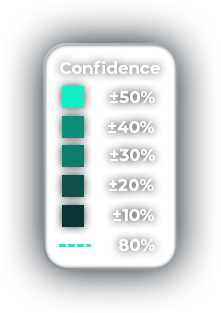
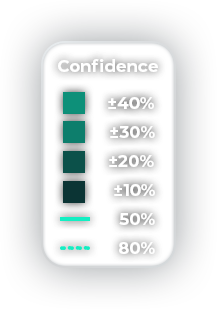
new legend/chart: todo implement the text and chart considerations

diff --git a/bot/functions.py b/bot/functions.py
@@ -55,10 +55,8 @@ class Stamp:
         return rounded
 
     def image(self, chart, displayLegend=True):
-        if displayLegend:
-            main = Image.open("bot/assets/predict.png").convert("RGBA")
-        else:
-            main = Image.open("bot/assets/chart.png").convert("RGBA")
+        if displayLegend: main = Image.open("bot/assets/template.png").convert("RGBA")
+        else: main = Image.open("bot/assets/template.png").convert("RGBA")
         legend = Image.open("bot/assets/legend.png").convert("RGBA")
         chartImg = Image.open(chart).resize((2400, 1200)).convert("RGBA")
 

diff --git a/bot/themes.py b/bot/themes.py
@@ -2,4 +2,7 @@ brand = "#13f7c9"
 brandInvert = "#ff0033"
 yellow = "#ffc600"
 bgDark = "#0a131b"
+arrowDown = "▼"
+arrowUp = "▲"
+mixed = "~"
 grayDark = "slategrey"